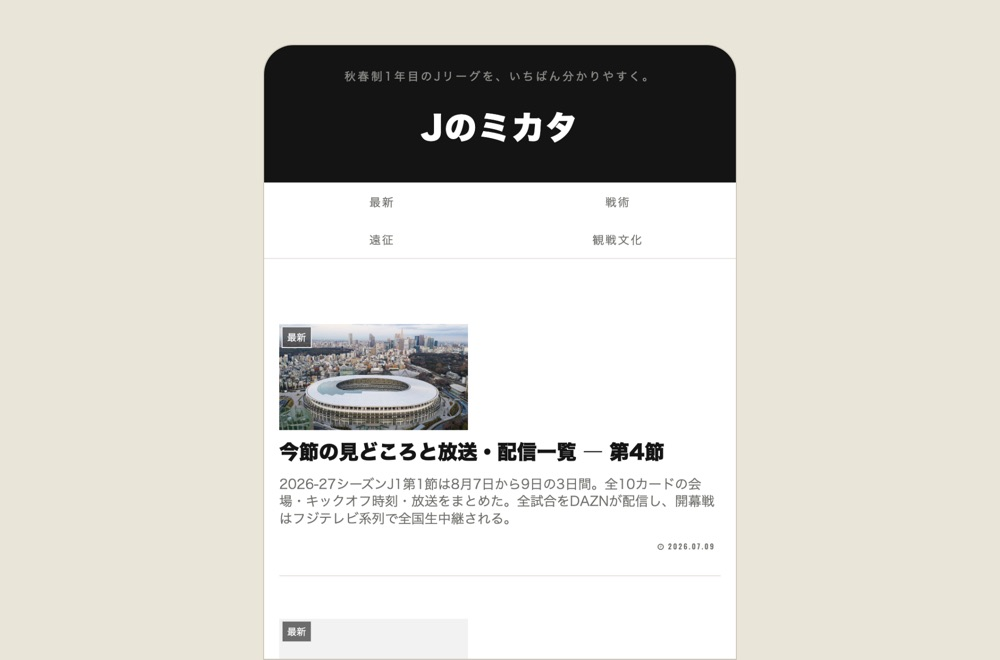
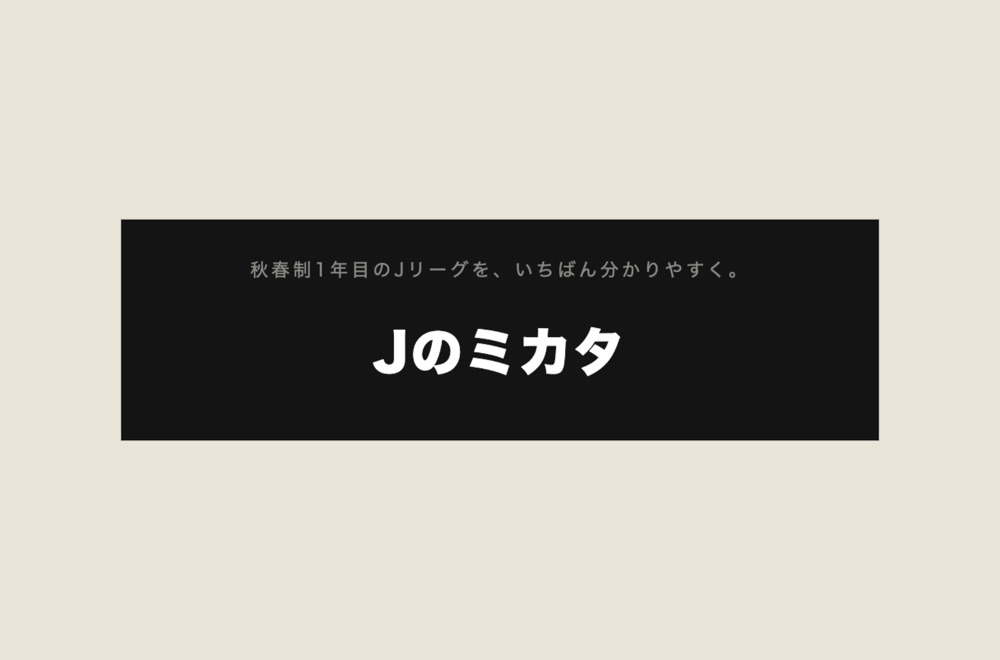
Jのミカタの画をヘッダーだけに
サイト全体のスクショではなく、ロゴとタグラインの黒帯のみを見せる。
共通枠に wide モードを追加。

diff --git a/tools/frame.html b/tools/frame.html
@@ -23,6 +23,10 @@
   body.square{align-items:center}
   .square .jacket{width:380px;height:380px;border:1px solid #CFC8B8;overflow:hidden;background:#fff}
   .square .jacket img{width:100%;height:100%;object-fit:cover;display:block}
+  /* 横長の帯(サイトのヘッダー/ロゴだけを見せる) */
+  body.wide{align-items:center}
+  .wide .band{width:760px;border:1px solid #CFC8B8;overflow:hidden;line-height:0}
+  .wide .band img{width:100%;display:block}
 </style></head>
 <body>
 <script>
@@ -32,6 +36,9 @@
   if (mode === 'square') {
     document.body.classList.add('square');
     document.body.innerHTML = '<div class="jacket"><img src="'+img+'"></div>';
+  } else if (mode === 'wide') {
+    document.body.classList.add('wide');
+    document.body.innerHTML = '<div class="band"><img src="'+img+'"></div>';
   } else {
     document.body.innerHTML = '<div class="phone"><img src="'+img+'"></div>';
   }

diff --git a/index.html b/index.html
@@ -204,7 +204,7 @@
 
     <li class="work">
       <a class="shot" href="https://j-mikata.net">
-        <img src="assets/shot-jmikata.jpg" alt="Jのミカタのトップページ" width="1000" height="660" loading="lazy" decoding="async">
+        <img src="assets/shot-jmikata.jpg" alt="Jのミカタのヘッダー。秋春制1年目のJリーグを、いちばん分かりやすく。" width="1000" height="660" loading="lazy" decoding="async">
         <div class="head"><span class="no"></span><h3>Jのミカタ</h3></div>
         <p>Jリーグを観に行く人のための、実用の観戦ガイド。全国のスタジアムを、席の見え方・行き方・周辺の宿まで実測でまとめています。秋春制1年目の変更点も追跡中。</p>
       </a>

diff --git a/README.md b/README.md
@@ -110,7 +110,7 @@ CH="/Applications/Google Chrome.app/Contents/MacOS/Google Chrome"
 "$CH" --headless --disable-gpu --hide-scrollbars --force-device-scale-factor=2 \
   --window-size=500,1000 --virtual-time-budget=9000 \
   --screenshot=tools/shots/xxx.png "https://example.com"
-# 共通枠に入れて書き出す(mode=phone / square)
+# 共通枠に入れて書き出す(mode=phone / square / wide)
 "$CH" --headless --disable-gpu --hide-scrollbars --force-device-scale-factor=2 \
   --window-size=1000,660 --virtual-time-budget=6000 --screenshot=/tmp/f.png \
   "http://localhost:4321/tools/frame.html?img=shots/xxx.png&mode=phone"
@@ -141,3 +141,14 @@ Jekyll の処理を丸ごと飛ばす。2026-08-25 に原因不明の `Page buil
 ```bash
 gh api repos/syake03/syake03.github.io/pages/builds --jq '.[0:3][] | "\(.created_at) \(.status) \(.error.message // "-")"'
 ```
+
+枠のモードは3つ。**何を見せたいかで選ぶ。**
+
+| mode | 見え方 | 使いどころ |
+|---|---|---|
+| `phone` | 端末の枠に画面を流し込む | アプリ・サイトの「中身」を見せたいとき |
+| `square` | 正方形のジャケット | ラジオのように作品そのものが四角い絵のとき |
+| `wide` | 横長の帯 | ロゴ/ヘッダーだけを見せたいとき(Jのミカタ) |
+
+ヘッダー帯を切り出すときは、**中央ではなく左端寄り(x=20など)の列で明るさを測る**こと。
+中央だと白いロゴ文字を「帯の終わり」と誤検出する(実際に踏んだ)。
